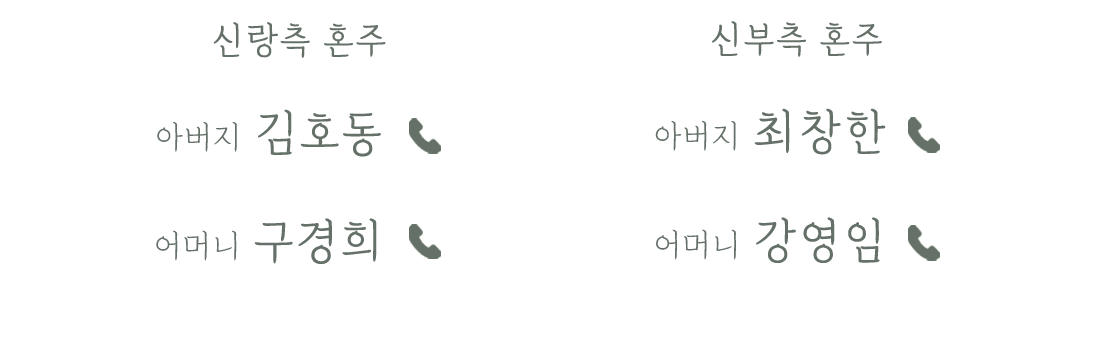
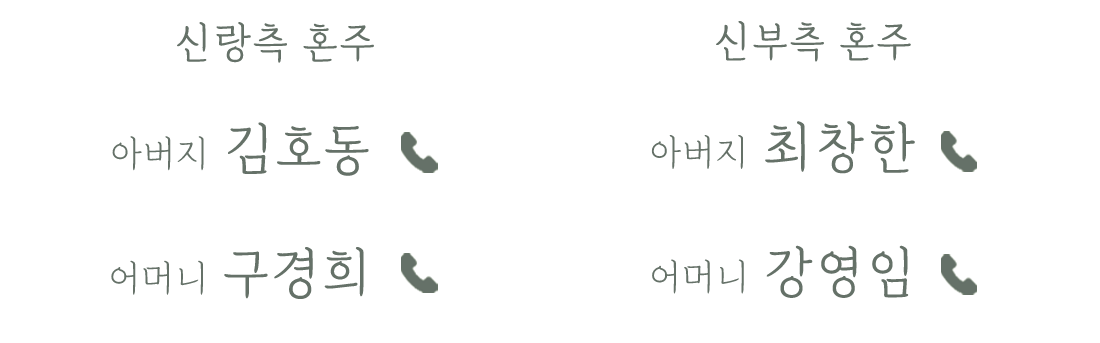
부모님 연락처 크기 크게

diff --git a/index.html b/index.html
@@ -1808,13 +1808,13 @@
                                                                                                             <img src="./images/contact.png" width="1100" height="343" orgwidth="1100" orgheight="343"
                                                                                                                 usemap="#map-contact-p" alt="">
                                                                                                             <map name="map-contact-p">
-                                                                                                                <area href="tel:010-7338-2112" shape="rect" coords="120,88,465,178" alt="신랑 아버지 김호동 연락처"
+                                                                                                                <area href="tel:010-7338-2112" shape="rect" coords="110,115,460,190" alt="신랑 아버지 김호동 연락처"
                                                                                                                     style="outline:none;" target="_blank">
-                                                                                                                <area href="tel:010-3967-2772" shape="rect" coords="120,198,465,288" alt="신랑 어머니 구경희 연락처" style="outline:none;"
+                                                                                                                <area href="tel:010-3967-2772" shape="rect" coords="110,235,465,310" alt="신랑 어머니 구경희 연락처" style="outline:none;"
                                                                                                                     target="_blank">
-                                                                                                                <area href="tel:010-3681-1294" shape="rect" coords="625,88,970,178" alt=" 신부 아버지 최창한 연락처" style="outline:none;"
+                                                                                                                <area href="tel:010-3681-1294" shape="rect" coords="645,115,995,190" alt=" 신부 아버지 최창한 연락처" style="outline:none;"
                                                                                                                     target="_blank">
-                                                                                                                <area href="tel:010-8874-4715" shape="rect" coords="625,198,970,288" alt="신부 어머니 강영임 연락처" style="outline:none;"
+                                                                                                                <area href="tel:010-8874-4715" shape="rect" coords="645,235,995,310" alt="신부 어머니 강영임 연락처" style="outline:none;"
                                                                                                                     target="_blank">
                                                                                                             </map>
                                                                                                         </div>
